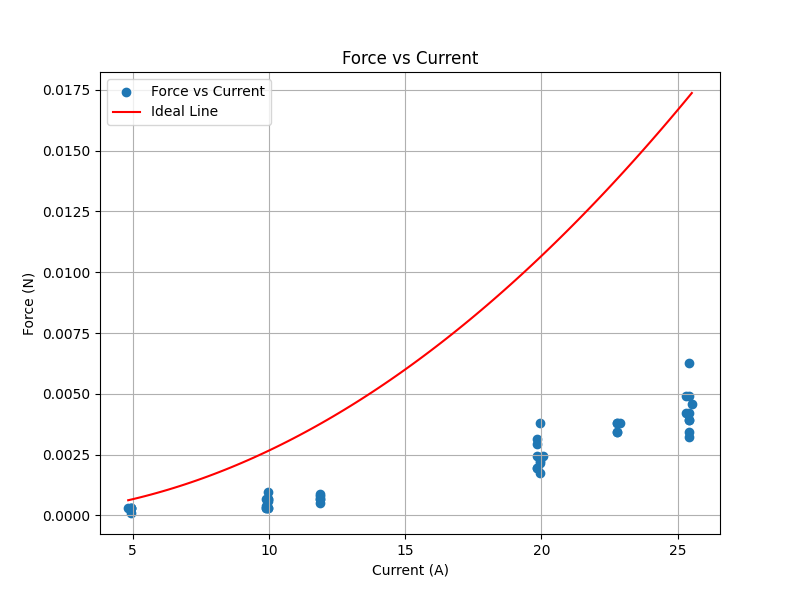
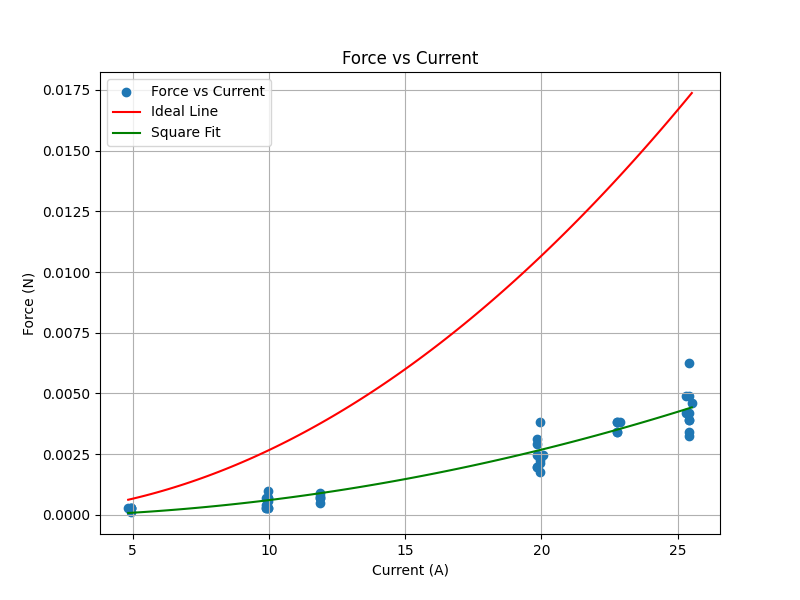
Improved a lot

diff --git a/scale.py b/scale.py
@@ -2,6 +2,9 @@ import numpy as np
 import matplotlib.pyplot as plt
 from scipy.optimize import curve_fit
 
+# ---------------------------
+# Data Initialization
+# ---------------------------
 center = np.array([
     [0, 1.00, 10.00, 11.00],  # trial 1
     [0, 1.00, 10.00, 11.00],
@@ -48,85 +51,140 @@ topright = np.array([
     [0, 1.00, 10.00, 11.00]
 ])
 
-center *= 1e-3  # Convert to kg
+# Convert grams to kilograms
+center *= 1e-3
 bottleft *= 1e-3
 bottright *= 1e-3
 topleft *= 1e-3
 topright *= 1e-3
 
+# ---------------------------
+# Define the Model Function
+# ---------------------------
 def linear(x, m, b):
     return m * x + b
 
-# Expected (true) mass values for each measurement column
-expected = np.array([0, 1, 10, 11])  # [no mass, 1g, 10g, 11g]
-expected = expected * 1e-3  # Convert to kg
+# ---------------------------
+# Prepare the Data (Individual Measurements)
+# ---------------------------
+# Expected (true) mass values for each measurement column (in kg)
+expected = np.array([0, 1, 10, 11]) * 1e-3
 
+# Combine data from different regions
 all_data = np.concatenate((center, bottleft, bottright, topleft, topright), axis=0)
 
-# Create x (true mass) and y (scale reading) arrays
+# Create arrays for the true mass (x_all) and scale reading (y_all)
 x_all = np.tile(expected, all_data.shape[0])
 y_all = all_data.flatten()
-error = y_all - x_all
 
-# curve fit
-popt, pcov = curve_fit(linear, x_all, error)
+# Calculate the error: difference between scale reading and true mass
+error_all = y_all - x_all
+
+# ---------------------------
+# Group-Averaging
+# ---------------------------
+# Get unique true mass values
+unique_x = np.unique(x_all)
+
+# For each unique true mass, compute the mean error and standard error (SEM)
+group_mean_error = np.array([np.mean(error_all[x_all == ux]) for ux in unique_x])
+min_uncertainty = 1e-7
+group_sem_error = np.array([
+    np.std(error_all[x_all == ux], ddof=1) / np.sqrt(np.sum(x_all == ux))
+    for ux in unique_x
+])
+# Replace zeros (or values below min_uncertainty) with min_uncertainty
+group_sem_error[group_sem_error < min_uncertainty] = min_uncertainty
+
+
+# ---------------------------
+# Linear Fit on Group-Averaged Data
+# ---------------------------
+# Use the group SEM as the sigma argument to weight the fit
+popt, pcov = curve_fit(linear, unique_x, group_mean_error, sigma=group_sem_error, absolute_sigma=True)
 m, b = popt
-error_fit = linear(x_all, *popt)
-residuals = error - error_fit
+fit_line = linear(unique_x, m, b)
+group_residuals = group_mean_error - fit_line
 
-def plot_scale():
-    plt.figure(figsize=(10, 6))
-    plt.scatter(x_all, error, label='Data Points', alpha=0.5)
-    plt.plot(x_all, error_fit, 'r-', label='Fitted Line: y = {:.2f}x + {:.2f}'.format(m, b))
-    plt.axhline(0, color='red', linestyle='--', label='Ideal Line')
-    plt.xlabel('True Mass (g)')
-    plt.ylabel('Scale Reading (g)')
-    plt.title('Scale Reading vs True Mass')
-    plt.grid(True)
-    plt.legend()
-    plt.show()
-
-    # Plot residuals
-    plt.figure(figsize=(10, 6))
-    plt.scatter(x_all, residuals, label='Residuals', alpha=0.5)
-    # plt.errorbar(x_all, residuals, yerr=0.1, fmt='o', label='Residuals', capsize=4)
-    plt.axhline(0, color='red', linestyle='--')
-    plt.xlabel('True Mass (g)')
-    plt.ylabel('Residuals (g)')
-    plt.title('Residuals of Scale Reading vs True Mass')
-    plt.grid(True)
-    plt.legend()
-    plt.show()
-
+# ---------------------------
+# Conversion Functions Based on the Group Fit
+# ---------------------------
 def scale_to_true_mass_and_uncertainty(y, m, b, sigma_y, sigma_m, sigma_b, cov_mb):
-    # Convert scale reading to true mass
+    """
+    Converts a scale reading y into a true mass using the calibration:
+       y = (1+m)*x + b,
+    which is inverted to x = (y - b) / (1+m).
+    
+    Uncertainties are propagated using the partial derivative method.
+    """
+    # Calculate true mass from a scale reading
     x = (y - b) / (1 + m)
     
-    # Partial derivatives for uncertainty propagation:
+    # Partial derivatives for uncertainty propagation
     dx_dy = 1 / (1 + m)
     dx_dm = -(y - b) / (1 + m)**2
     dx_db = -1 / (1 + m)
     
-    # Propagate uncertainties:
+    # Propagate uncertainties (including covariance between m and b)
     sigma_x = np.sqrt(
         (dx_dy * sigma_y)**2 +
         (dx_dm * sigma_m)**2 +
         (dx_db * sigma_b)**2 +
         2 * dx_dm * dx_db * cov_mb
     )
-    
     return x, sigma_x
 
+# For conversion, choose a representative uncertainty for the scale reading.
+# Here we use the average SEM from the group-averaging as sigma_y.
 convert_params = {
     'm': m,
     'b': b,
-    'sigma_y': np.std(residuals),
+    'sigma_y': np.mean(group_sem_error),
     'sigma_m': np.sqrt(pcov[0, 0]),
     'sigma_b': np.sqrt(pcov[1, 1]),
     'cov_mb': pcov[0, 1]
 }
 
 def scale_to_true(y):
-    # Convert scale reading to true mass
+    """
+    Converts a scale reading (or group-averaged reading) into a calibrated true mass.
+    """
     x, sigma_x = scale_to_true_mass_and_uncertainty(y, **convert_params)
     return x, sigma_x
+
+# print("Scale to True Mass Conversion Formula:")
+# print("x = (y - b) / (1 + m)")
+# print(convert_params)
+
+
+# ---------------------------
+# Plotting Functions Using Group-Averaged Data
+# ---------------------------
+def plot_scale():
+    # Plot the group-averaged error with error bars corresponding to the SEM
+    plt.figure(figsize=(7, 5))
+    plt.errorbar(unique_x, group_mean_error, yerr=group_sem_error, fmt='o', capsize=4,
+                 label='Error in Scale Reading')
+    plt.plot(unique_x, fit_line, 'r-', 
+             label='Fitted Line: y = {:.2e}x {:.2e}'.format(m, b, '+d'))
+    plt.axhline(0, color='red', linestyle='--', label='Ideal Scale Reading')
+    plt.xlabel('True Mass (kg)')
+    plt.ylabel('Error (kg)')
+    plt.title('Scale Reading Error vs True Mass')
+    plt.grid(True)
+    plt.legend()
+    plt.show()
+
+    # Plot the residuals for the group means
+    plt.figure(figsize=(7, 5))
+    plt.errorbar(unique_x, group_residuals, yerr=group_sem_error, fmt='o', capsize=4,
+                 label='Residuals')
+    plt.axhline(0, color='red', linestyle='--')
+    plt.xlabel('True Mass (kg)')
+    plt.ylabel('Residual (kg)')
+    plt.title('Residuals of Scale Reading Error vs True Mass')
+    plt.grid(True)
+    plt.legend()
+    plt.show()
+
+# plot_scale()

diff --git a/magneto.py b/magneto.py
@@ -1,6 +1,7 @@
 import numpy as np
 import matplotlib.pyplot as plt
 from scale import scale_to_true
+from scipy.optimize import curve_fit
 
 # Load and clean the data
 data = np.genfromtxt('258-Magneto.csv', delimiter=',')
@@ -48,15 +49,19 @@ exp_mu = (force * 2 * np.pi * height) / (measured_current**2 * l)  # Experimenta
 exp_mu_unc = exp_mu * np.sqrt(
     (force_unc / force)**2 +
     (height_unc / height)**2 +
-    (measured_current_unc / measured_current)**2 +
+    (2 * measured_current_unc / measured_current)**2 +
     (l_unc / l)**2
-)  # Uncertainty in experimental permeability
+)
+  # Uncertainty in experimental permeability
 # Get the unique supply current values
 
 print(np.mean(force), np.mean(force_unc))
 print(np.mean(height), np.mean(height_unc))
 print(np.mean(measured_current), np.mean(measured_current_unc))
 print(np.mean(exp_mu), np.mean(exp_mu_unc))
+
+def linear(x, a, b):
+    return a * x + b
 
 
 unique_supply_currents = np.unique(supply_current)
@@ -91,11 +96,22 @@ def force_vs_height():
     plt.show()
 
 def force_vs_current():
+    def square(x, a, b):
+        return a * x**2 + b
+    
+    # fit square
+    popt, pcov = curve_fit(square, measured_current, force, sigma=force_unc, absolute_sigma=True)
+    a, b = popt
+    a_unc, b_unc = np.sqrt(np.diag(pcov))
+    print('a and uncertainty', a, a_unc)
+    print('b and uncertainty', b, b_unc)
+
     plt.figure(figsize=(8,6))
     plt.scatter(measured_current, force, label='Force vs Current')
     x = np.linspace(min(measured_current), max(measured_current), 100)
     y = (mu_0 * x**2 * l) / (2 * np.pi * height.mean())  # Force in Newtons
     plt.plot(x, y, 'r-', label='Ideal Line')
+    plt.plot(x, square(x, a, b), 'g-', label='Square Fit')
     plt.xlabel('Current (A)')
     plt.ylabel('Force (N)')
     plt.title('Force vs Current')
@@ -104,9 +120,19 @@ def force_vs_current():
     plt.show()
 
 def mu_vs_current():
+    # fit linear
+    popt, pcov = curve_fit(linear, measured_current, exp_mu, sigma=exp_mu_unc, absolute_sigma=True)
+    a, b = popt
+    a_unc, b_unc = np.sqrt(np.diag(pcov))
+
+
     plt.figure(figsize=(8,6))
     # plt.scatter(measured_current, exp_mu, label='Experimental Permeability')
     plt.errorbar(measured_current, exp_mu, yerr=exp_mu_unc, fmt='o', label='Experimental Permeability')
+    x = np.linspace(min(measured_current), max(measured_current), 100)
+    y = linear(x, a, b)
+    plt.plot(x, y, 'r-', label='Linear Fit')
+    plt.fill_between(x, linear(x, a-a_unc, b-b_unc), linear(x, a+a_unc, b+b_unc), color='red', alpha=0.2)
     plt.axhline(y=mu_0, color='r', linestyle='--', label='Theoretical Permeability (H/m)')
     plt.xlabel('Current (A)')
     plt.ylabel('Experimental Permeability (H/m)')
@@ -115,10 +141,31 @@ def mu_vs_current():
     plt.legend()
     plt.show()
 
+    # Residuals
+    residuals = exp_mu - linear(measured_current, a, b)
+    residuals_unc = np.sqrt(exp_mu_unc**2 + (a * measured_current_unc)**2 + (b * 0)**2)
+    plt.figure(figsize=(8,6))
+    plt.errorbar(measured_current, residuals, yerr=residuals_unc, fmt='o', capsize=4, label='Residuals')
+    plt.axhline(y=0, color='r', linestyle='--')
+    plt.xlabel('Current (A)')
+    plt.ylabel('Residuals')
+    plt.title('Residuals of Linear Fit')
+    plt.grid(True)
+    plt.show()
+
 def mu_vs_height():
+    # fit linear
+    popt, pcov = curve_fit(linear, height, exp_mu, sigma=exp_mu_unc, absolute_sigma=True)
+    a, b = popt
+    a_unc, b_unc = np.sqrt(np.diag(pcov))
+
     plt.figure(figsize=(8,6))
     # plt.scatter(height, exp_mu, label='Experimental Permeability')
     plt.errorbar(height, exp_mu, yerr=exp_mu_unc, fmt='o', label='Experimental Permeability')
+    x = np.linspace(min(height), max(height), 100)
+    y = linear(x, a, b)
+    plt.plot(x, y, 'r-', label='Linear Fit')
+    plt.fill_between(x, linear(x, a-a_unc, b-b_unc), linear(x, a+a_unc, b+b_unc), color='red', alpha=0.2)
     plt.axhline(y=mu_0, color='r', linestyle='--', label='Theoretical Permeability (H/m)')
     plt.xlabel('Height (m)')
     plt.ylabel('Experimental Permeability (H/m)')
@@ -127,8 +174,20 @@ def mu_vs_height():
     plt.legend()
     plt.show()
 
-per_current()
+    # Residuals
+    residuals = exp_mu - linear(height, a, b)
+    residuals_unc = np.sqrt(exp_mu_unc**2 + (a * height_unc)**2 + (b * 0)**2)
+    plt.figure(figsize=(8,6))
+    plt.errorbar(height, residuals, yerr=residuals_unc, fmt='o', capsize=4, label='Residuals')
+    plt.axhline(y=0, color='r', linestyle='--')
+    plt.xlabel('Height (m)')
+    plt.ylabel('Residuals')
+    plt.title('Residuals of Linear Fit')
+    plt.grid(True)
+    plt.show()
+
+# per_current()
 # force_vs_height()
-# force_vs_current()
-mu_vs_current()
-mu_vs_height()
+force_vs_current()
+# mu_vs_current()
+# mu_vs_height()

diff --git a/shunt.py b/shunt.py
@@ -31,11 +31,11 @@ resistance_std_err_ohm = resistance_std_err / 1000
 print("Fitted resistance: {:.8f} Ω ± {:.8f} Ω".format(fitted_resistance_ohm, resistance_std_err_ohm))
 print("Fitted offset: {:.7f} mV ± {:.7f} mV".format(fitted_offset, offset_std_err))
 
-plt.errorbar(current, voltage, yerr=voltage_uncertainty, fmt='o', label='Data points', capsize=4) # Plotting uncertainty bars of the x axis were omitted since it is tiny, to plot them, add the parameter `xerr=current_uncertainty` to the function
 x = np.linspace(0, 10, 100)
 y = linear_model(output.beta, x)
-plt.plot(x, y, 'r-', label='Fitted line: y = {:.2f}x + {:.2f}'.format(fitted_resistance, fitted_offset))
-# plt.title('Voltage drop across shunt resistor ar various currents')
+plt.plot(x, y, 'r-', label='Fitted line: y = {:.2f}x {:.2f}'.format(fitted_resistance, fitted_offset, '+d'), zorder=1)
+plt.scatter(current, voltage, label='Data points', zorder=2)
+plt.title('Voltage drop across shunt resistor at various currents')
 plt.xlabel('Current (A)')
 plt.ylabel('Voltage (mV)')
 plt.xlim(0, 10)
@@ -47,6 +47,7 @@ plt.show()
 residuals = voltage - linear_model(output.beta, current)
 plt.errorbar(current, residuals, yerr=voltage_uncertainty, fmt='o', label='Residuals', capsize=4)
 plt.axhline(0, color='red', linestyle='--')
+plt.title('Residuals of the fit')
 plt.xlabel('Current (A)')
 plt.ylabel('Residuals (mV)')
 plt.show()
